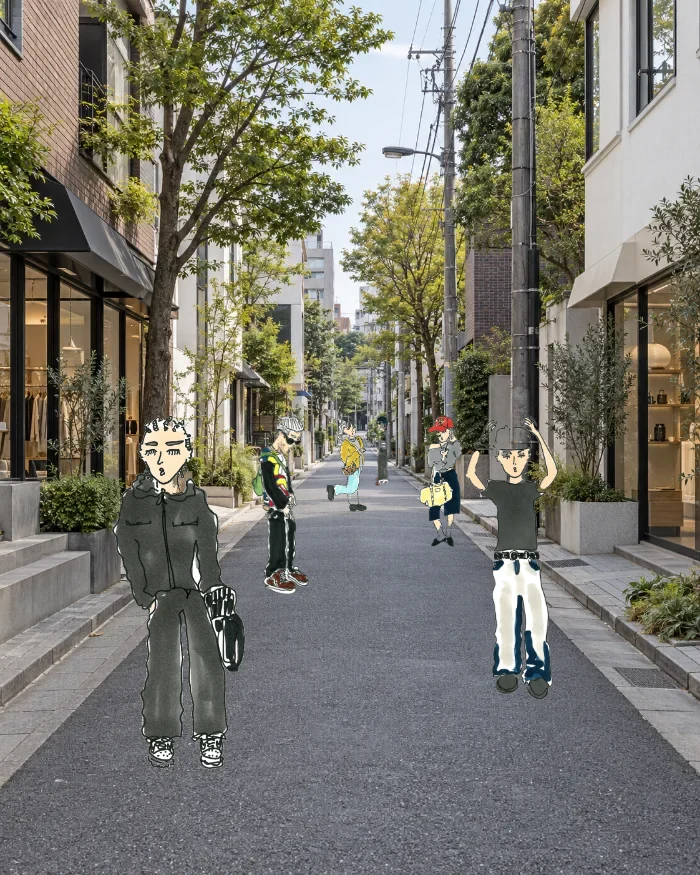
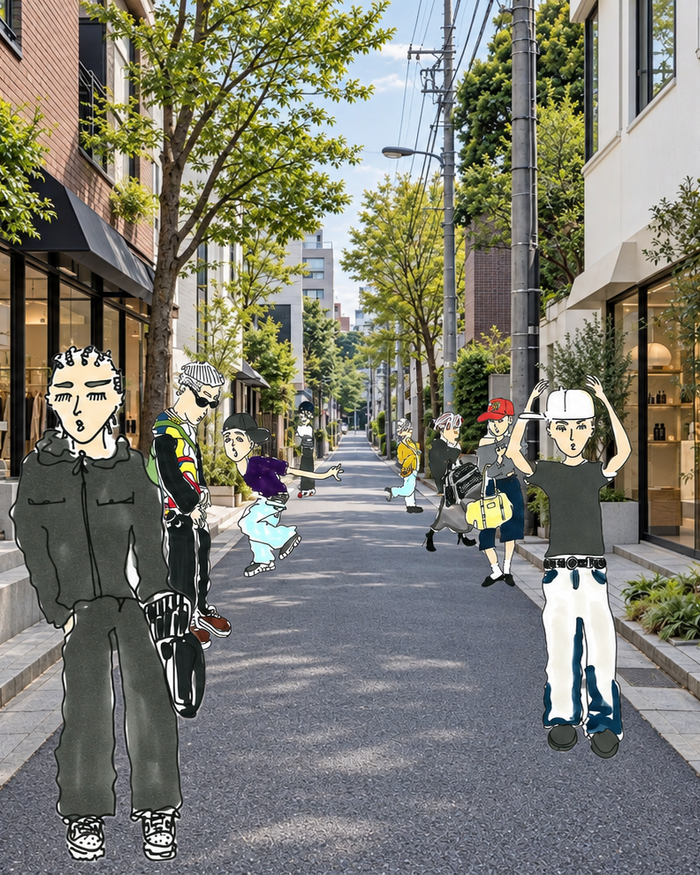
街：いただいた (2) の画像をそのまま使う
street-pc-1400 (2).webp / street-sp-700 (2).webp を焼き直さず
そのまま街の画像にした。置き場所の都合で名前だけ合わせてある。
PC は 1400×875 の横長になったので、1440×900 では切れずに全部映る。

?v=10 に上げて読み直させる。

diff --git a/index.html b/index.html
@@ -417,7 +417,7 @@ addEventListener('load',function(){ clearTimeout(t); setTimeout(go,3500); });
   var layers=[].slice.call(g.querySelectorAll('.street i'));
   var small=matchMedia('(max-width:760px)').matches;
   /* ?v は焼き直した街を確実に読ませるための番号。焼き直したら上げる */
-  function src(n){ return 'naoto-assets/street/'+n+(small?'@700w':'')+'.webp?v=9'; }
+  function src(n){ return 'naoto-assets/street/'+n+(small?'@700w':'')+'.webp?v=10'; }
   function load(i){
     var el=layers[i];
     if(!el||el.dataset.loaded) return;
